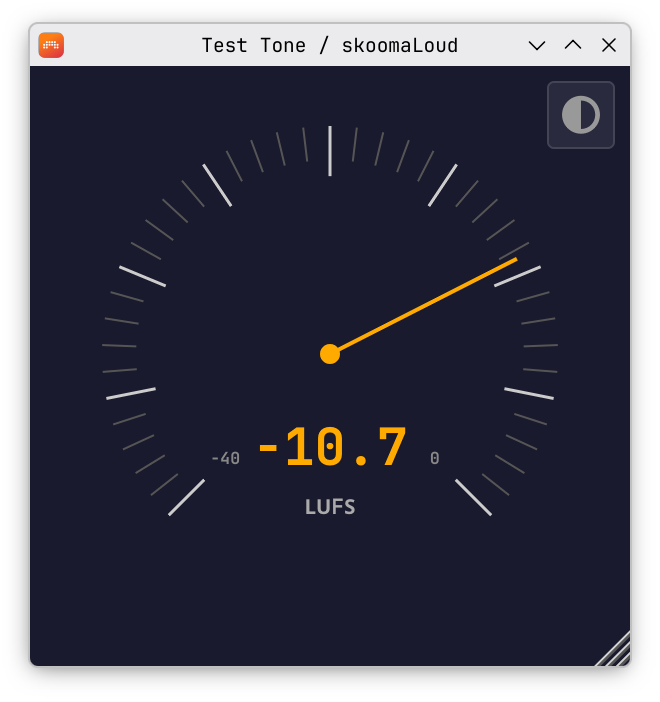
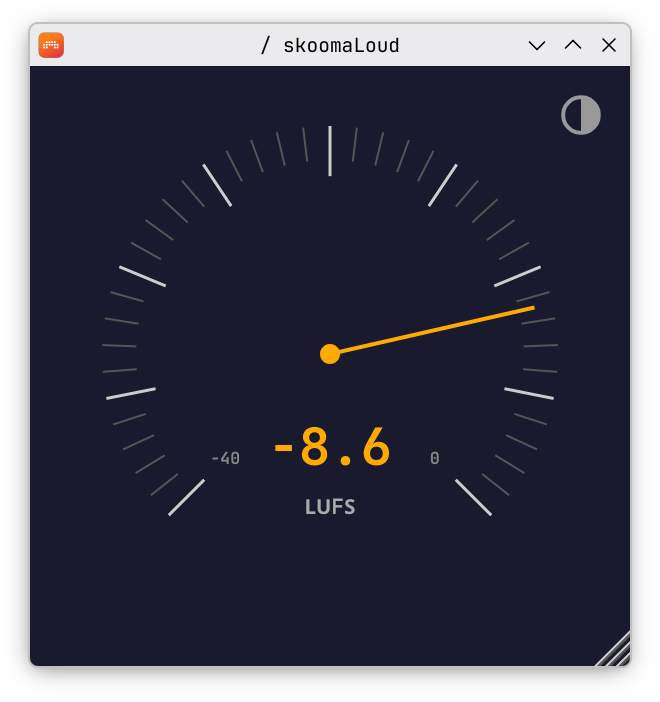
Replace Font Awesome glyphs with Boxicons SVG
Theme toggle now uses an SVG icon from Boxicons (MIT) instead of a Font
Awesome font glyph. Hover-only background on the toggle. Updated
screenshots, README credits, and removed the unused fa-solid font.

diff --git a/Source/PluginEditor.cpp b/Source/PluginEditor.cpp
@@ -50,6 +50,15 @@ const Theme lightTheme = {
     juce::Colour(0xff777777),
 };
 
+void drawIcon(juce::Graphics& g, const juce::Drawable* src,
+              juce::Rectangle<float> rect, juce::Colour colour)
+{
+    if (src == nullptr) return;
+    auto d = src->createCopy();
+    d->replaceColour(juce::Colours::black, colour);
+    d->drawWithin(g, rect, juce::RectanglePlacement::centred, 1.0f);
+}
+
 } // anonymous namespace
 
 SkoomaLoudEditor::SkoomaLoudEditor(SkoomaLoudProcessor& p)
@@ -60,10 +69,7 @@ SkoomaLoudEditor::SkoomaLoudEditor(SkoomaLoudProcessor& p)
         BinaryData::JetBrainsMonoBoldsubset_ttfSize);
     monoFont = juce::Font(juce::FontOptions(typeface));
 
-    auto iconTypeface = juce::Typeface::createSystemTypefaceFor(
-        BinaryData::fasolidsubset_ttf,
-        BinaryData::fasolidsubset_ttfSize);
-    iconFont = juce::Font(juce::FontOptions(iconTypeface));
+    iconTheme = juce::Drawable::createFromImageData(BinaryData::theme_svg, BinaryData::theme_svgSize);
 
     constrainer.setFixedAspectRatio(1.0);
     constrainer.setMinimumSize(200, 200);
@@ -190,22 +196,19 @@ void SkoomaLoudEditor::paint(juce::Graphics& g)
     float dotR = 5.0f * scale;
     g.fillEllipse(cx - dotR, cy - dotR, dotR * 2, dotR * 2);
 
-    // --- Toggle: theme (top-right) ---
+    // --- Toggle: theme (top-right, hover-only background) ---
     float iconSize = 33.0f * scale;
     float iconPad  = 8.0f * scale;
-    float themeX = w - iconSize - iconPad;
-    float themeY = iconPad;
+    juce::Rectangle<float> themeRect(w - iconSize - iconPad, iconPad, iconSize, iconSize);
 
-    g.setColour(t.toggleBg);
-    g.fillRoundedRectangle(themeX, themeY, iconSize, iconSize, 3.0f * scale);
-    g.setColour(t.toggleBorder);
-    g.drawRoundedRectangle(themeX, themeY, iconSize, iconSize, 3.0f * scale, 1.0f * scale);
-
-    g.setColour(t.toggleIcon);
-    g.setFont(iconFont.withHeight(iconSize * 0.6f));
-    g.drawText(juce::String::charToString(juce::juce_wchar(0xf042)),
-               juce::Rectangle<float>(themeX, themeY, iconSize, iconSize),
-               juce::Justification::centred, false);
+    if (isMouseOver(false)) {
+        auto mp = getMouseXYRelative().toFloat();
+        if (themeRect.contains(mp)) {
+            g.setColour(t.toggleIcon.withAlpha(0.15f));
+            g.fillRoundedRectangle(themeRect, 3.0f * scale);
+        }
+    }
+    drawIcon(g, iconTheme.get(), themeRect.reduced(iconSize * 0.2f), t.toggleIcon);
 
     // --- Numeric readout (only when signal present) ---
     if (std::isfinite(displayLufs))

diff --git a/Source/PluginEditor.h b/Source/PluginEditor.h
@@ -24,7 +24,7 @@ private:
     SkoomaLoudProcessor& processor;
 
     juce::Font monoFont;
-    juce::Font iconFont;
+    std::unique_ptr<juce::Drawable> iconTheme;
     juce::ComponentBoundsConstrainer constrainer;
 
     static constexpr float kMinLufs = -40.0f;

diff --git a/README.md b/README.md
@@ -35,7 +35,7 @@ Copy `build/SkoomaLoud_artefacts/Release/VST3/skoomaLoud.vst3/` to your VST3 fol
 
 ## Credits
 
-K-weighting and short-term integration implemented from scratch against the [ITU-R BS.1770-4](https://www.itu.int/rec/R-REC-BS.1770) loudness specification, using biquad design formulas from Robert Bristow-Johnson's [Audio EQ Cookbook](https://www.w3.org/TR/audio-eq-cookbook/). Icons: [Font Awesome Free](https://fontawesome.com/) (SIL OFL 1.1). Font: [JetBrains Mono](https://www.jetbrains.com/lp/mono/) (SIL OFL 1.1).
+K-weighting and short-term integration implemented from scratch against the [ITU-R BS.1770-4](https://www.itu.int/rec/R-REC-BS.1770) loudness specification, using biquad design formulas from Robert Bristow-Johnson's [Audio EQ Cookbook](https://www.w3.org/TR/audio-eq-cookbook/). Icons: [Boxicons](https://github.com/box-icons/boxicons-core) (MIT). Font: [JetBrains Mono](https://www.jetbrains.com/lp/mono/) (SIL OFL 1.1).
 
 ## License
 
